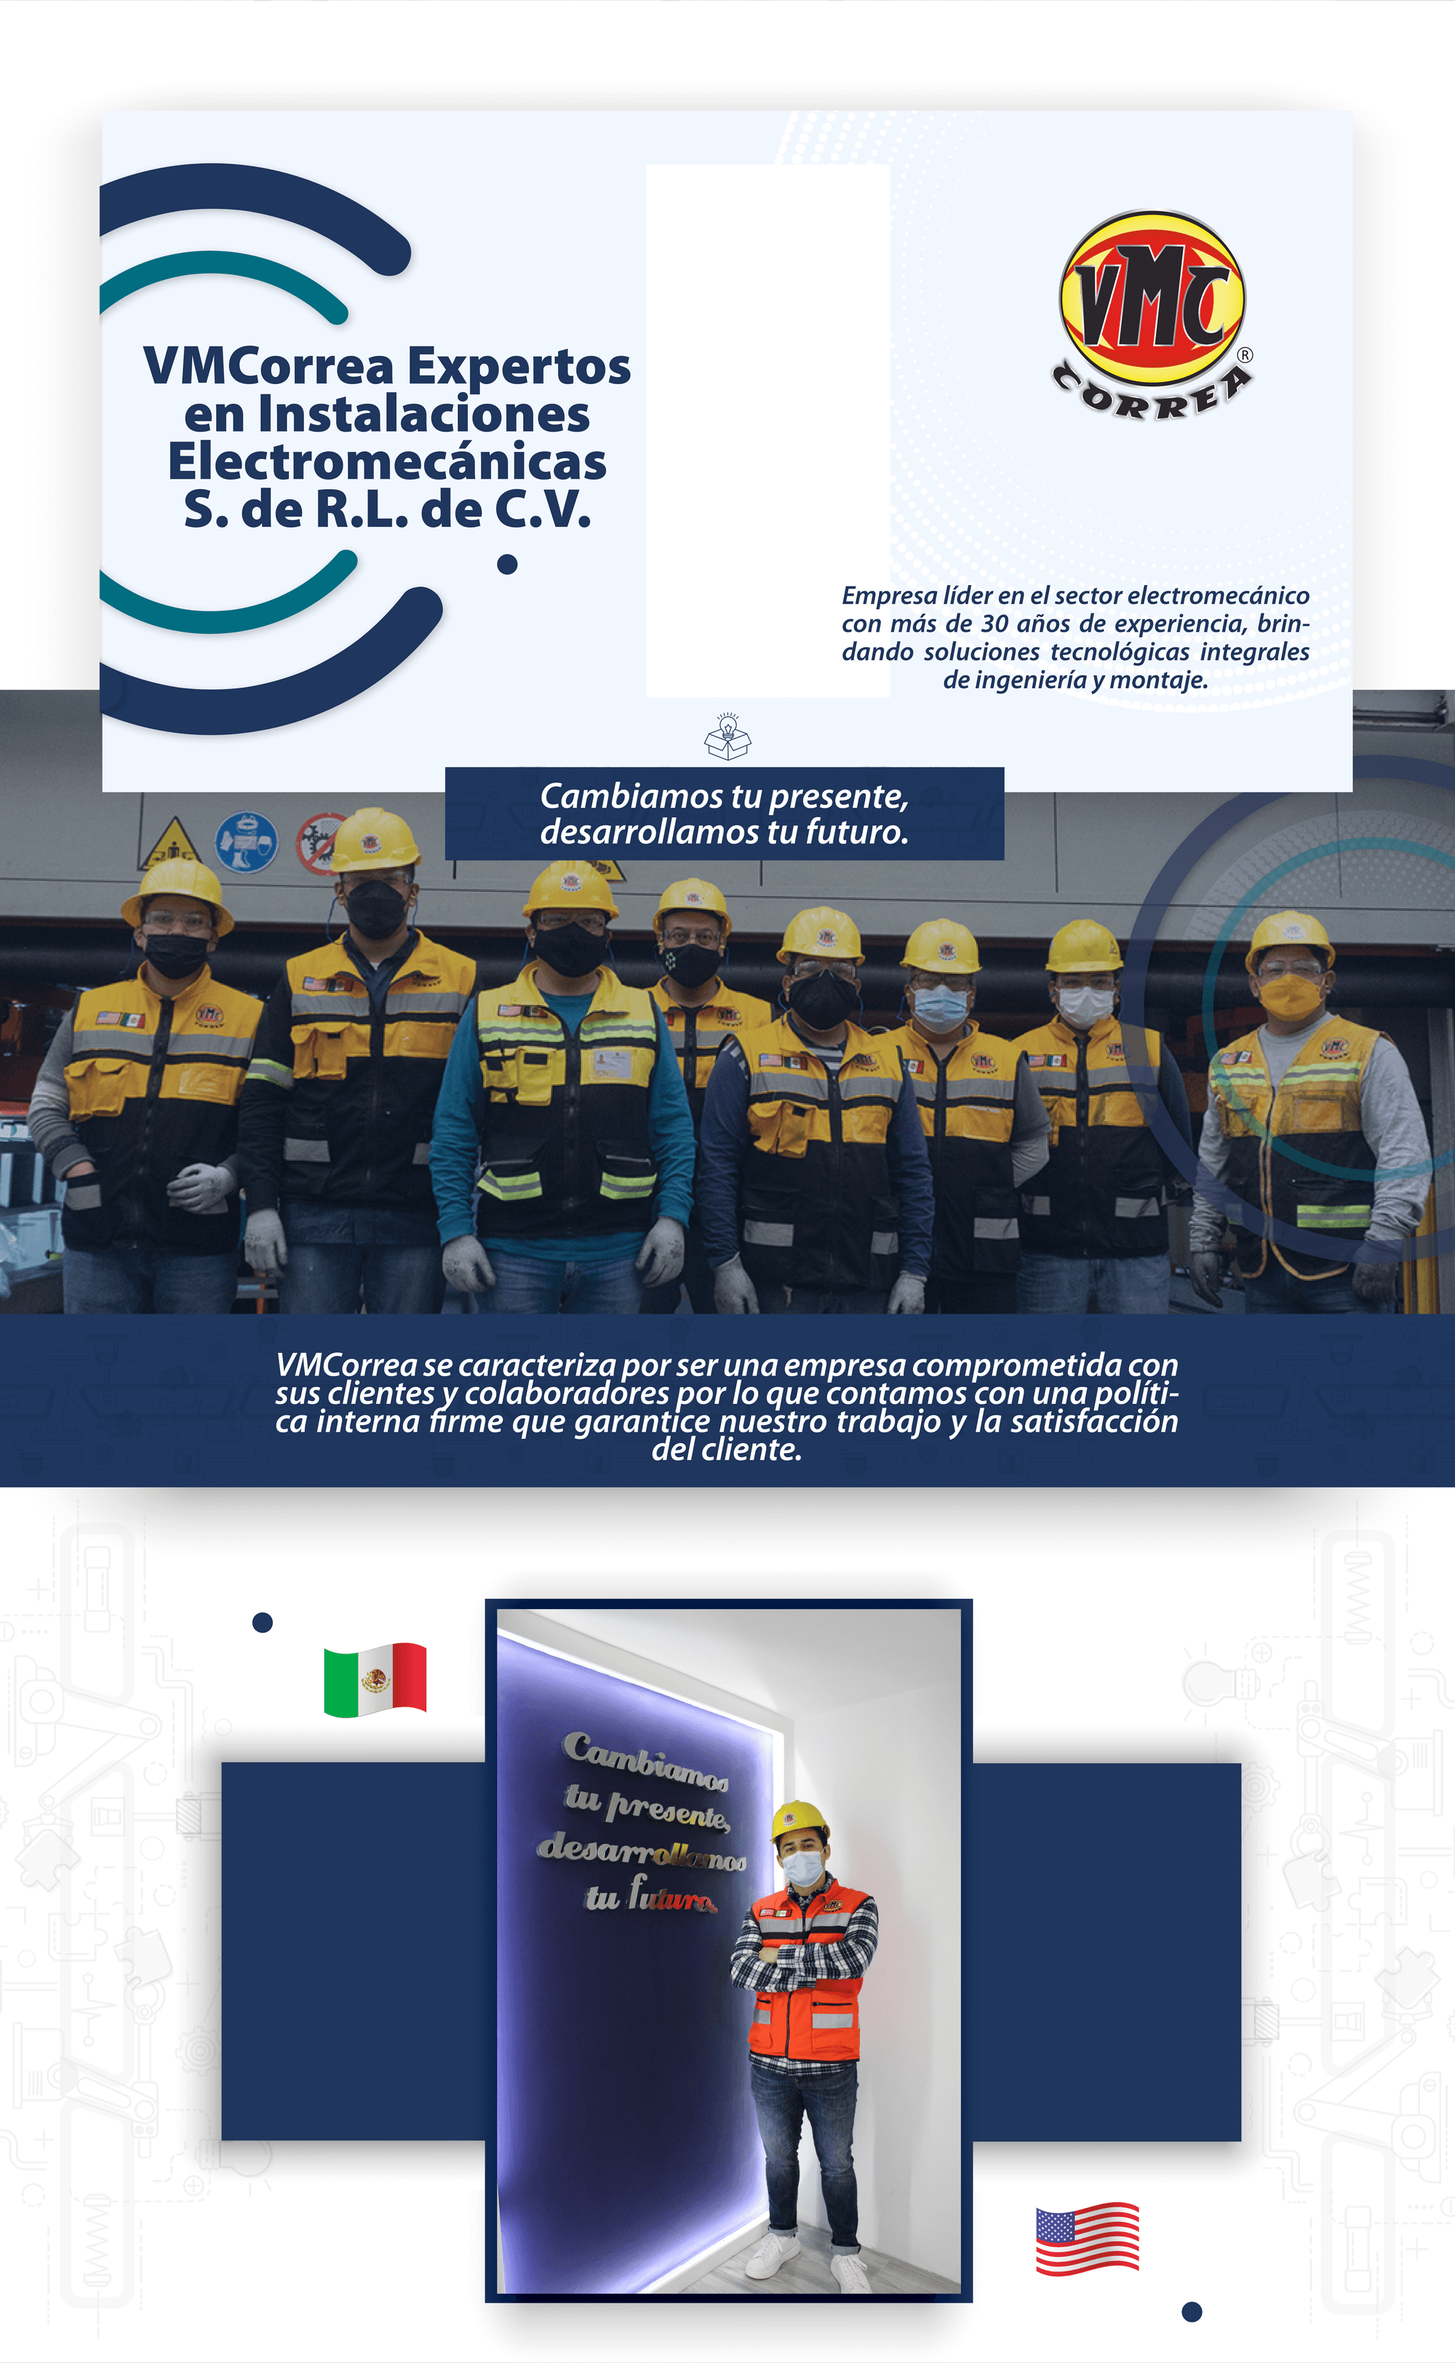
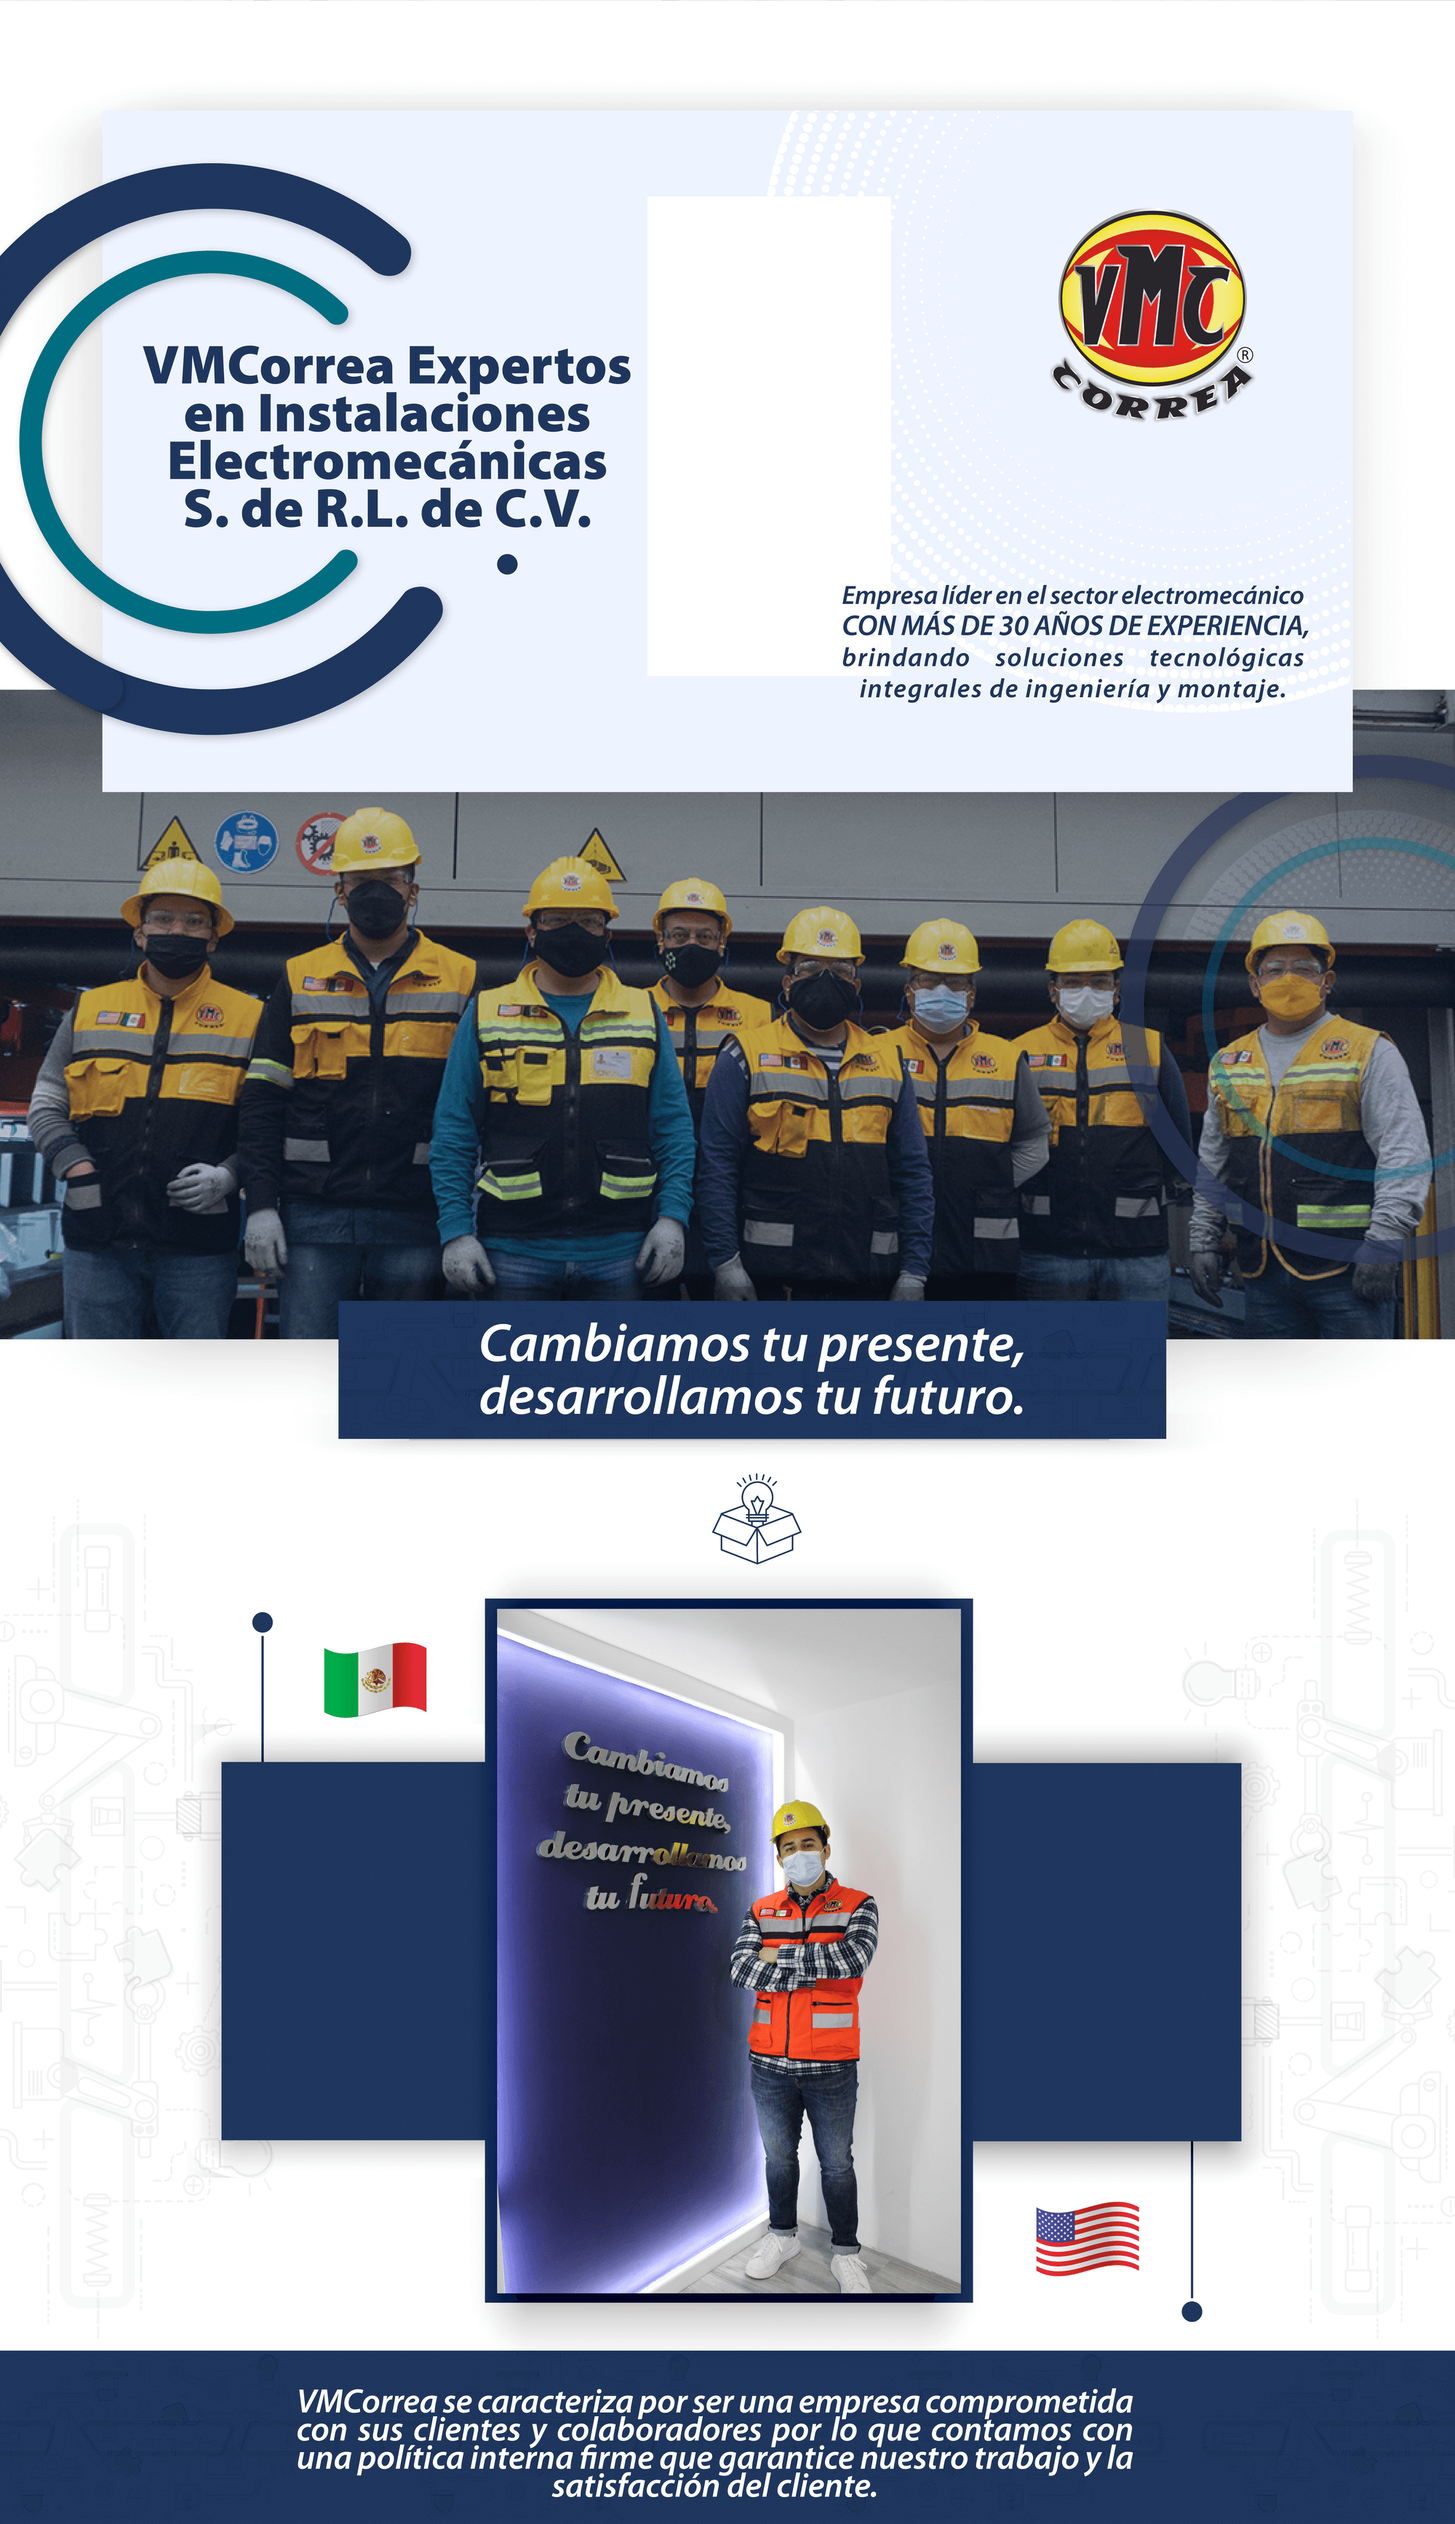
add information about us

diff --git a/nosotros.html b/nosotros.html
@@ -120,51 +120,32 @@
                 </div>
             </div>
 
-            <div class="slider__hero">
-
+            <div class="flex__box" data-aos="fade-up">
+                <img src="assets/banners/Banner_nosotros.png" alt="Banner Nosotros">
             </div>
         </header>
         <!-- End header -->
 
         <!-- Main section or body -->
-        <div class="body__container">
-            <main class="main mb__mobile">
-                <div class="container-fluid">
-                    <div class="container">
-                        <div class="row">
-                            <div class="col-lg-7 col-sm-12" data-aos="fade-up">
-                                <div class="section-title mb-4">
-                                    <h5 class="position-relative d-inline-block text-uppercase heading">
-                                        Sobre Nosotros
-                                        <span class="sub__line1"></span>
-                                        <span class="sub__line2"></span>
-                                    </h5>
-                                    <h1 class="display-1 mb-0 mt-4">
-                                        VMCorrea Expertos en Instalaciones Electromecánicas S. de R.L. de C.V.
-                                    </h1>
-                                    
-                                </div>
-                                <h4 class="text__body mb-4 text-justify">Empresa Líder en el sector electromecánico con más de 30 años de experiencia, brindando soluciones tecnológicas integrales de ingeniería y montaje.</h4>
-                                <p class="mb-4 text-justify">Empresa comprometida con sus clientes y colaboradores por lo que contamos con una política interna firme que garantice nuestro trabajo y la satisfacción del cliente.</p>
-                            </div>
-                            <div class="col-lg-5 flex__box" data-aos="zoom-in">
-                                <div class="row">
-                                    <div class="col-lg-12">
-                                        <div class="text-center">
-                                            <img src="assets/icons/logo-vmc-principal.png" loading="lazy"  class="rounded" alt="Logo VMCORREA" width="50%">
-                                        </div>
-                                    </div>
-                                    <div class="col-lg-12">
-                                        <div class="text-center">
-                                            <img src="assets/img/usa-mx.png" loading="lazy" class="rounded" alt="Bandera México - Estados Unidos " width="70%">
-                                        </div>                        
-                                    </div>
-                                </div>
-                            </div>
+        <div class="contenedor">
+            <div class="body__container">
+                <main class="main" data-aos="fade-up">
+                    <div class="container-fluid">
+                        <div class="container">
+                            <h5 class="position-relative d-inline-block text-uppercase heading">
+                                Sobre Nosotros
+                                <span class="sub__line1"></span>
+                                <span class="sub__line2"></span>
+                            </h5>
                         </div>
                     </div>
+                </main>
+            </div>
+            <div class="cotenedor" data-aos="fade-up">
+                <div class="pd__b10 flex__box">
+                    <img src="/assets/img/nosotros.png" alt="" srcset="">
                 </div>
-            </main>
+            </div>
         </div>
         <!-- End body -->
 

diff --git a/index.html b/index.html
@@ -183,7 +183,7 @@
 
         <!-- Main section or body -->
         <div class="cotenedor" data-aos="fade-up">
-            <div class="pd__b10">
+            <div class="pd__b10 flex__box">
                 <img src="/assets/img/home.png" alt="" srcset="">
             </div>
         </div>
